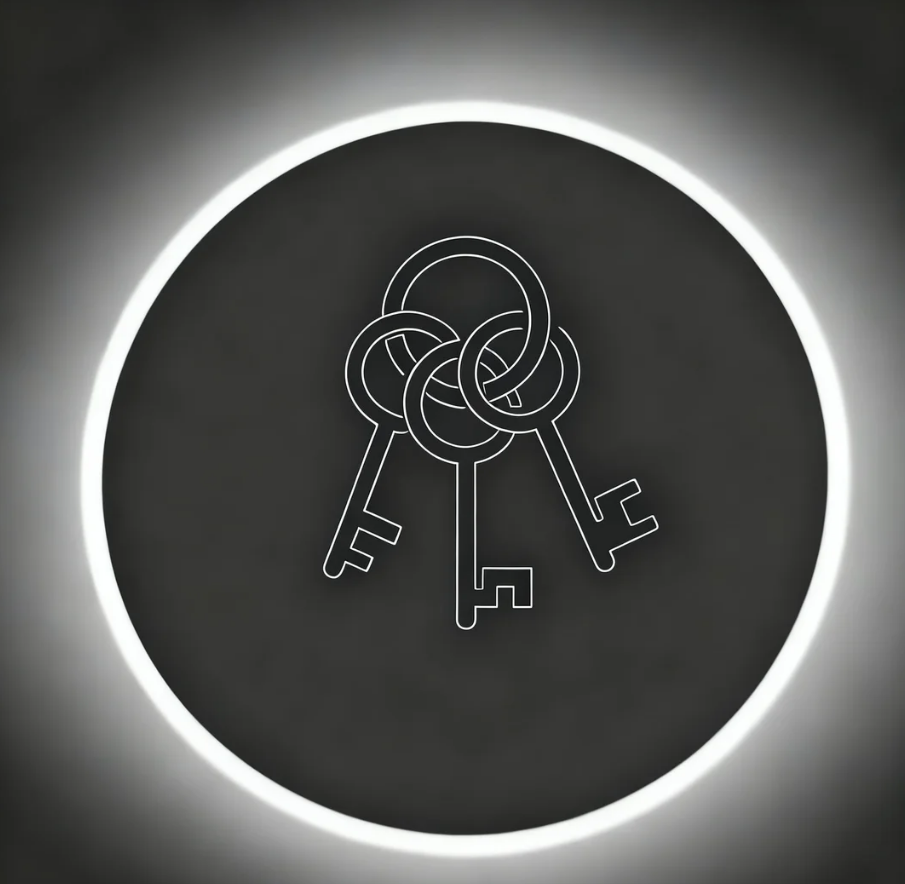
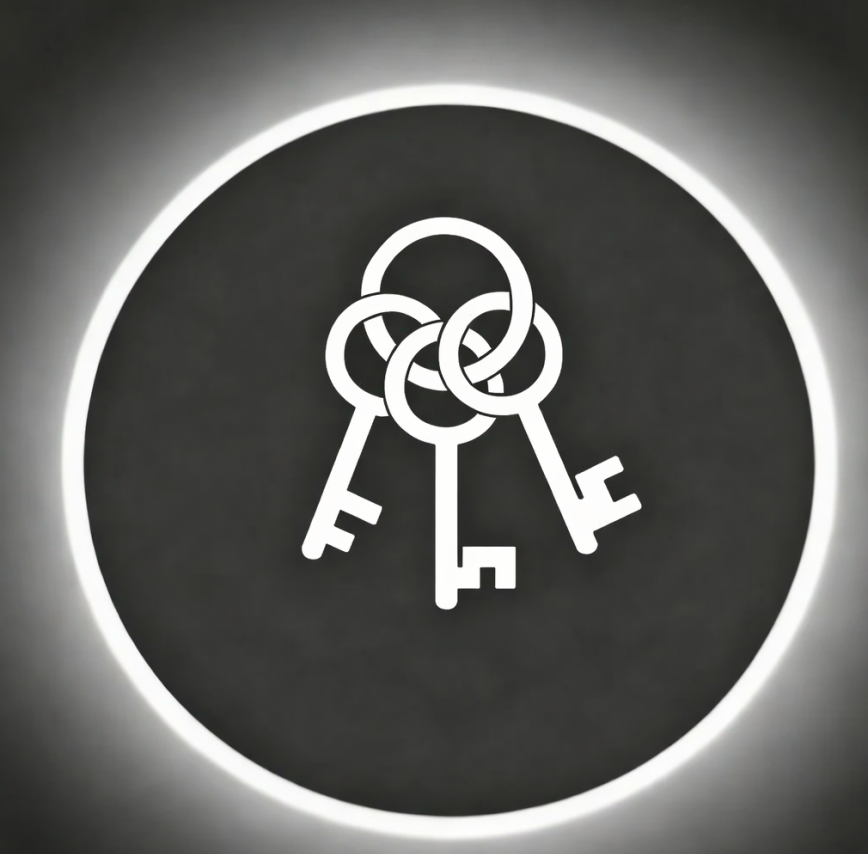
ajeitando os botões

Changed region(s): [[0.0622, 0.0913, 0.9954, 1.0], [0.3422, 0.2436, 0.7465, 0.7307]]

diff --git a/css/style.css b/css/style.css
@@ -18,7 +18,7 @@ body{
 /* Estilo dos Botões */
 .btn-escape {
     background-color: #980303; /* Vermelho sangue */
-    color: white;
+    color: black;
     padding: 15px 15px;
     border: 2px solid #5a0000;
     border-radius:100px;
@@ -44,7 +44,7 @@ body{
 
 /* Estilizando o botão de imagem */
 .botao-chave img {
-    width: 150px; /* Tamanho da chave na tela */
+    width: 80px; /* Tamanho da chave na tela */
     border-radius: 50%; /* Como a keywhite é redonda, isso ajuda no contorno */
     transition: all 0.4s ease; /* Suaviza o movimento */
     cursor: pointer;
@@ -53,8 +53,8 @@ body{
 
 /* Efeito de destaque quando o jogador encontra a chave */
 .botao-chave img:hover {
-    transform: scale(1.1) rotate(5deg); /* Aumenta e gira levemente */
-    filter: drop-shadow(0 0 15px #ffffff); /* Cria um brilho branco atrás */
+    transform: scale(1.1) rotate(45deg); /* Aumenta e gira levemente */
+    filter: drop-shadow(0 0 20px #ffffff); /* Cria um brilho branco atrás */
     border: 3px solid #ffffff; /* Aparece uma borda branca */
 }
 
@@ -64,7 +64,7 @@ body{
     color: #00ff00;
     padding: 15px 30px;
     border: 2px solid #00ff00;
-    border-radius: 20px; /* Arredondado */
+    border-radius: 30px; /* Arredondado */
     text-decoration: none;
     display: inline-block;
     margin: 10px;
@@ -72,18 +72,4 @@ body{
 }
 .btn-verde:hover { background-color: #00ff00; color: black; }
 
-/* --- BOTÃO 3: AMARELO ALERTA (Circular/Oval) --- */
-.btn-amarelo {
-    background-color: #ffcc00;
-    color: black;
-    padding: 25px 20px;
-    border: 3px dashed black;
-    border-radius: 50%; /* Faz ficar oval/circular */
-    text-decoration: none;
-    display: inline-block;
-    margin: 10px;
-    font-weight: bold;
-    transition: 0.3s;
-}
-.btn-amarelo:hover { transform: scale(1.1); background-color: #ffff00; }
- 
+
